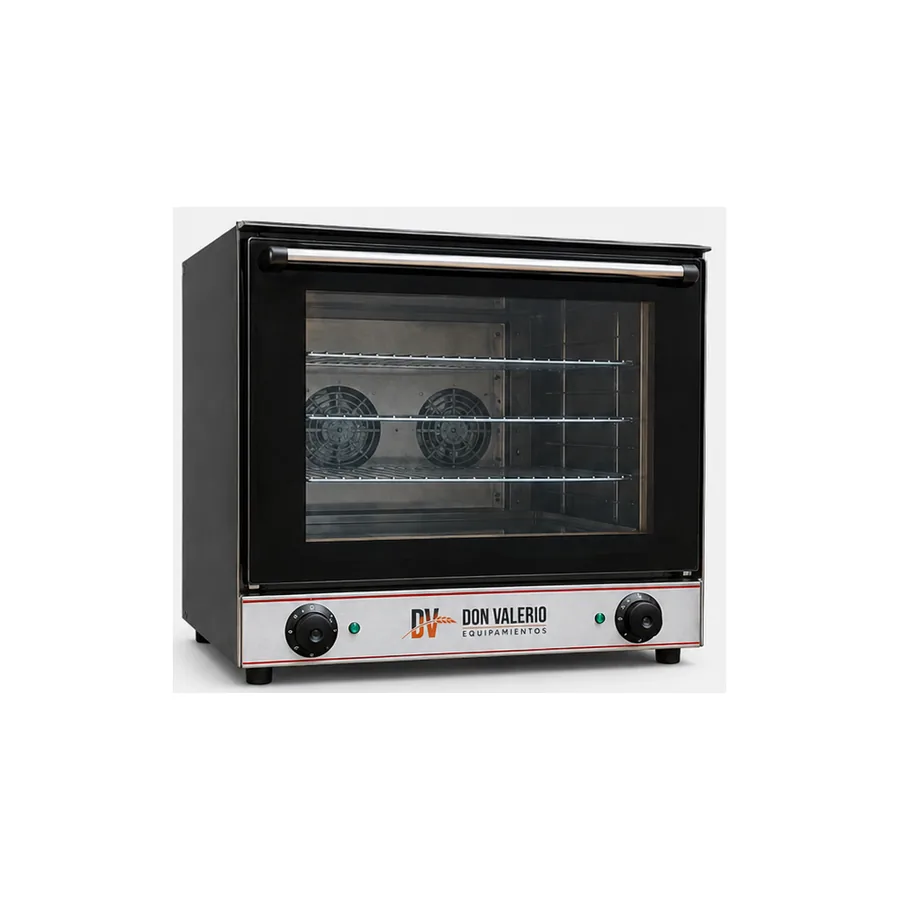
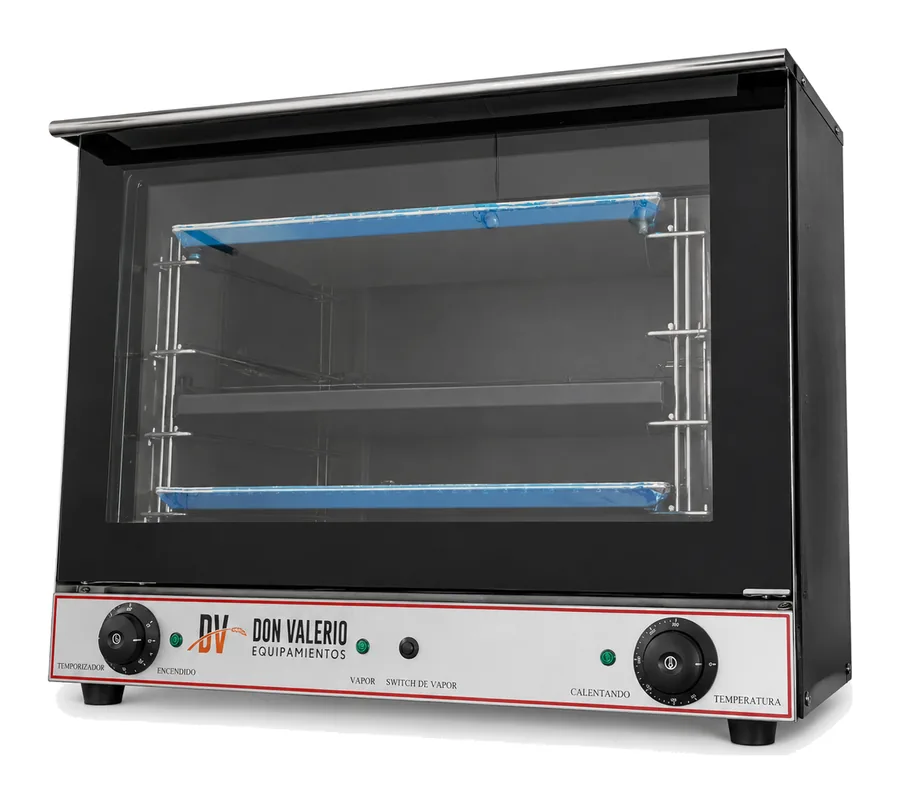
quitar datos bancarios y nueva imagen EB-8A

diff --git a/src/data.js b/src/data.js
@@ -1,7 +1,6 @@
 // ========= Data - Don Valerio Equipamientos — Junio 2026 =========
 
 const fmt = (n) => n.toLocaleString('es-AR', { maximumFractionDigits: 0 });
-const fmtARS = (n) => `$ ${fmt(n)}`;
 
 const CATEGORIES = [
   { id: 'batidoras',    n: '01', label: 'Batidoras Planetarias',   desc: 'Desde 7 hasta 60 litros' },
@@ -328,33 +327,15 @@ const PRODUCTS = [
   },
 ];
 
-const DEFAULT_CART = [];
-
-const PROVINCES = [
-  'Buenos Aires', 'CABA', 'Catamarca', 'Chaco', 'Chubut', 'Córdoba',
-  'Corrientes', 'Entre Ríos', 'Formosa', 'Jujuy', 'La Pampa', 'La Rioja',
-  'Mendoza', 'Misiones', 'Neuquén', 'Río Negro', 'Salta', 'San Juan',
-  'San Luis', 'Santa Cruz', 'Santa Fe', 'Santiago del Estero', 'Tierra del Fuego', 'Tucumán'
-];
-
-const BANK_INFO = {
-  banco: 'Banco Santa Fe',
-  titular: 'Don Valerio Equipamientos',
-  cuit: '30-71234567-4',
-  cbu: '3300550030004538291043',
-  alias: 'DON.VALERIO.PAN',
-};
-
 const BRAND = {
   name: 'Don Valerio',
   full: 'Don Valerio Equipamientos',
   tagline: 'Equipamiento profesional para panadería y gastronomía',
   address: 'Venezuela 1215 bis, Rosario — Santa Fe',
   phone: '+54 9 341 665-0190',
-  ivaNote: 'Precios sin IVA (10,5%)',
 };
 
 const FICHAS = ['B7-A','B15-V','B20-V','B30-V','B40-V','B60-V','BH-130','BHS-10-A','BHS-10-D','BHS-20-A','BHS-20-B','BHS-30-A','BHS-30-B','BHS-40-A','BHS-40-B','BHS-60-A','BHS-60-B','BHS-60-C','BSA-31','BDK-30S','DSL-2B','DSL-4B','DSL-6B','EB-4A','EB-8A','HL-R5D','HL-R10D','DBQ-520B','BDQ-650E','TRINCH-JR','TRINCH-CE','VSD-260D','YH-6','YH-16','YH-32'];
 
 
-export { fmt, fmtARS, CATEGORIES, PRODUCTS, DEFAULT_CART, PROVINCES, BANK_INFO, BRAND, FICHAS };
+export { CATEGORIES, PRODUCTS, BRAND, FICHAS };
